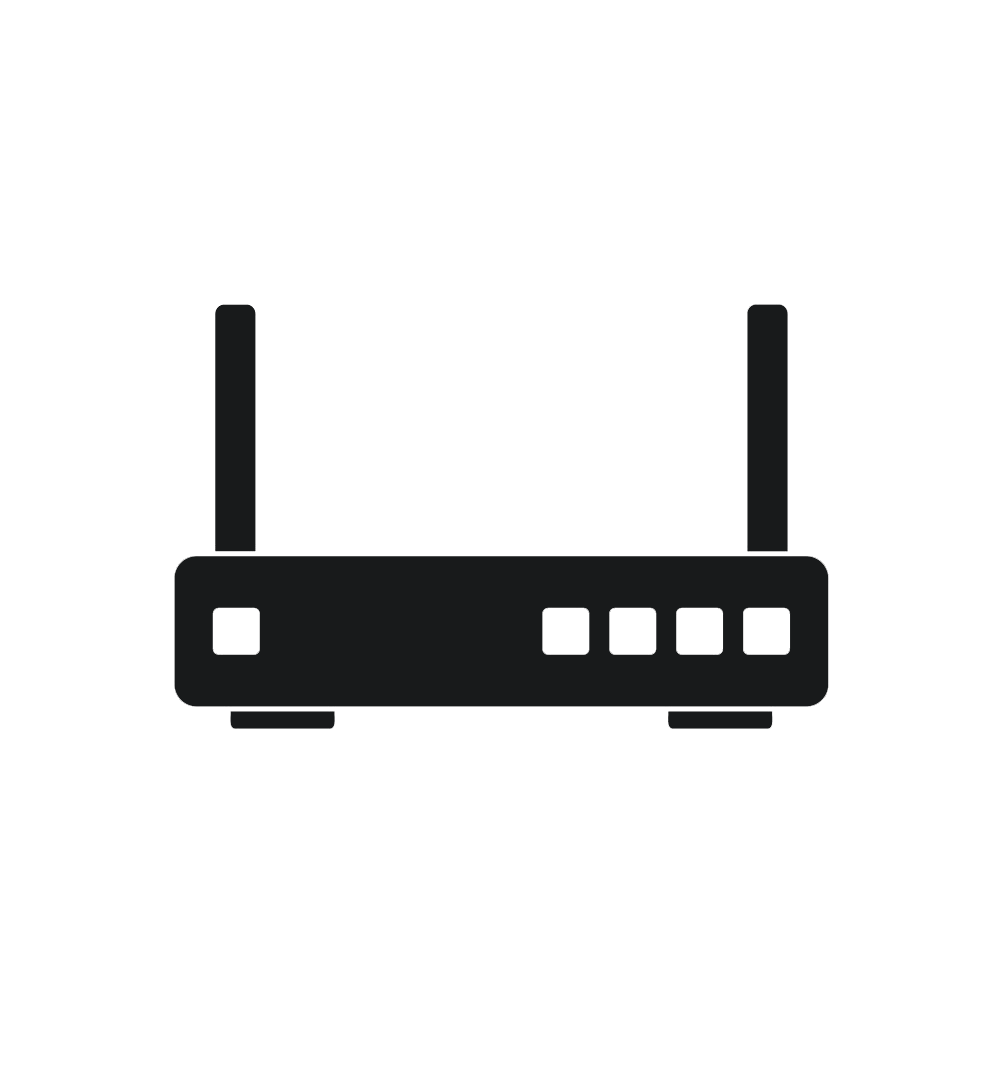
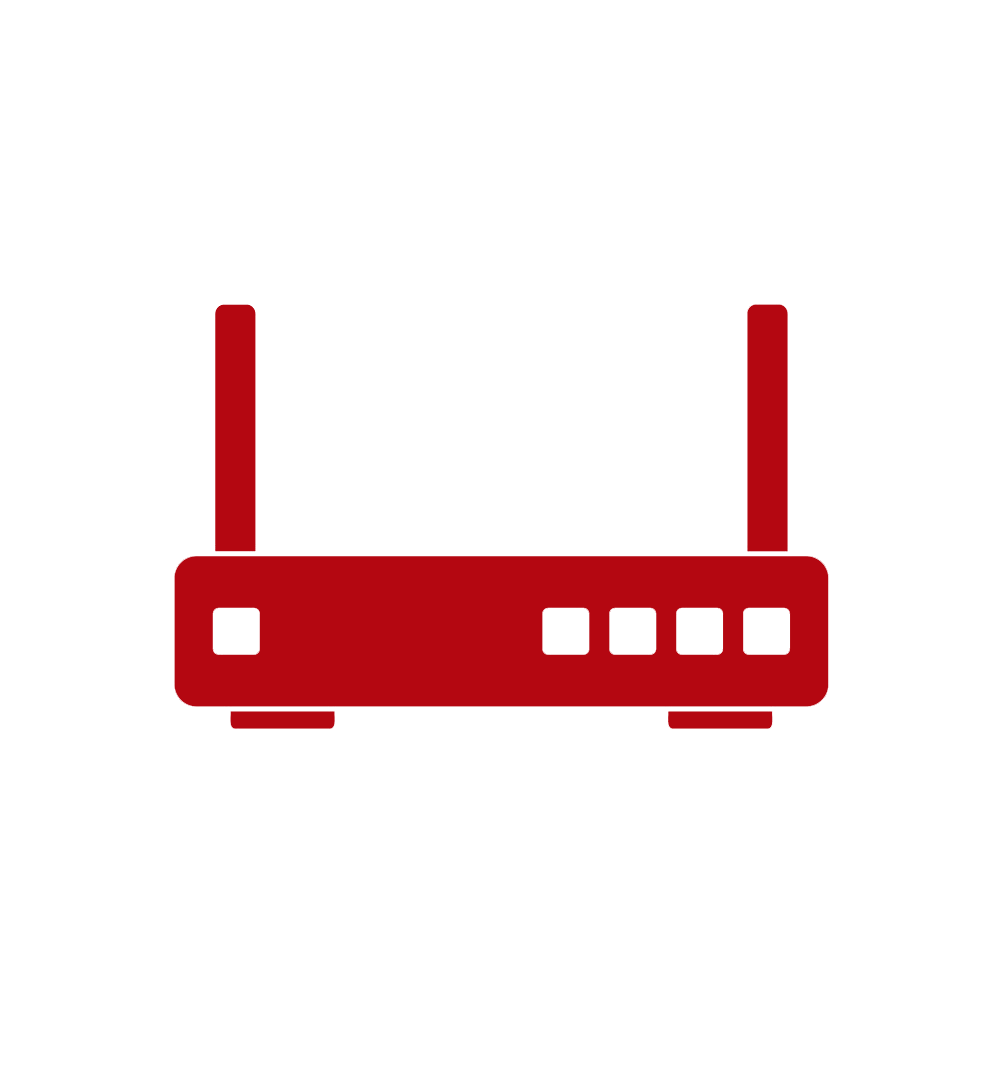
added nginxpm, changed colors and order

Changed region(s): [[0.155, 0.275, 0.837, 0.6722]]

diff --git a/index.html b/index.html
@@ -121,19 +121,24 @@
                 <img src="./img/docker.png" alt="bubble3">
         </div>
 
-            <a href="https://127.0.0.1:8384/">
+            <a href="http://192.168.178.13:81/">
                     <div class="bubble" id="bubble4">
-                    <img src="./img/syncthing.png" alt="bubble4">
+                    <img src="./img/nginxpm.png" alt="bubble4">
             </div>
 
-        <a href="http://192.168.178.13:80/">
+        <a href="http://192.168.178.13:1050/">
                 <div class="bubble" id="bubble5">
                 <img src="./img/omv2.png" alt="bubble5">
-        </div>
+                </div>
+
+        <a href="https://127.0.0.1:8384/">
+            <div class="bubble" id="bubble6">
+            <img src="./img/syncthing.png" alt="bubble6">
+             </div>
 
         <a href="http://192.168.178.1/">
-            <div class="bubble" id="bubble6">
-            <img src="./img/router.png" alt="bubble6">
+            <div class="bubble" id="bubble7">
+            <img src="./img/router.png" alt="bubble7">
             </div>
         </div>
 

diff --git a/style_main.css b/style_main.css
@@ -332,7 +332,7 @@ input.searchbar:focus {
 }
 
 #bubble4 {
-    background-color: #0882c8;
+    background-color: #292929;
 }
 
 #bubble5 {
@@ -340,7 +340,11 @@ input.searchbar:focus {
 }
 
 #bubble6 {
-    background-color: #1a6daf;
+    background-color: #0882c8;
+}
+
+#bubble7 {
+    background-color: #c3af00;
 }
 
 /*FOOTER: LINK TO REPOSITORY*/
